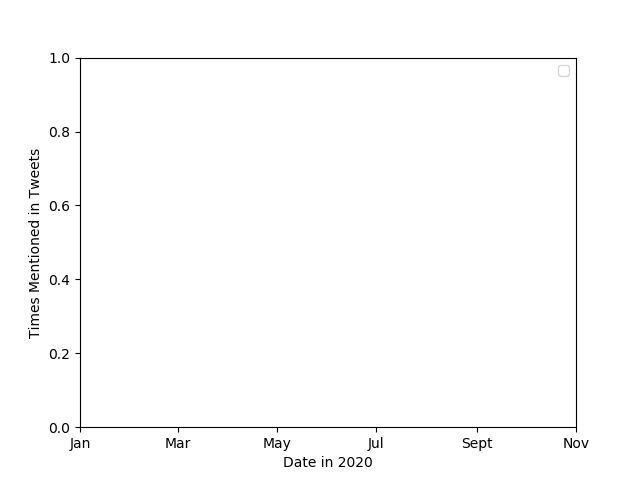
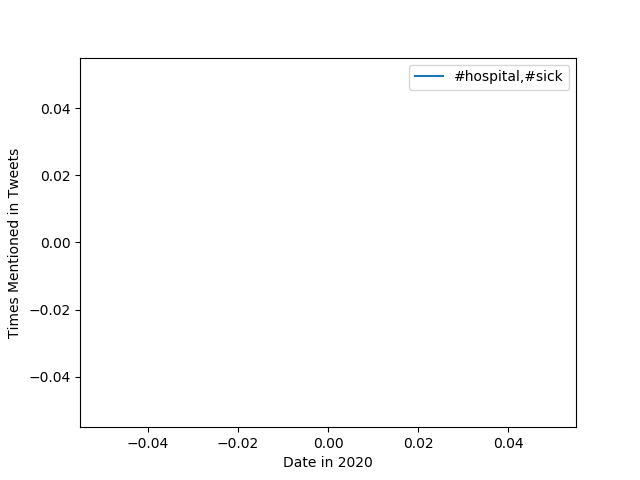
add alt

diff --git a/alternative_reduce.py b/alternative_reduce.py
@@ -1,35 +1,39 @@
 #!/usr/bin/env python3
-import argparse
+import matplotlib
+import numpy as np
 import json
+matplotlib.use('Agg')
+import matplotlib.pyplot as plt
+import argparse
 from collections import Counter, defaultdict
 from glob import glob
 
-import matplotlib
-import numpy as np
-matplotlib.use('Agg')
-import matplotlib.pyplot as plt
+# command line args
+parser = argparse.ArgumentParser()
+parser.add_argument('--input_dir', required=True)
+parser.add_argument('--keys', nargs='+', required=True)
+args = parser.parse_args()
 
+input_files = glob(args.input_dir + '/*')
 
-def main(args):
-    input_files = glob(args.input_dir + '/*')
-    for key in args.keys:
-        yaxis = []
-        total = defaultdict(lambda: Counter())
+for key in args.keys:
+    yaxis = []
+    total = defaultdict(lambda: Counter())
 
-        for path in sorted(input_files):
-            with open(path) as f:
-                tmp = json.load(f)
-                num = 0
-                try:
-                    for k in tmp[key]:
-                        num += tmp[key][k]
-                except:
-                    pass
-                yaxis.append(num)
-        plt.plot(np.arrange(len(yaxis)), yaxis, label=key)
+    for path in sorted(input_files):
+        with open(path) as f:
+            tmp = json.load(f)
+            sumnum = 0
+            try:
+                for k in tmp[key]:
+                    sumnum += tmp[key][k]
+            except:
+                pass
+            yaxis.append(sumnum)
+    plt.plot(np.arange(len(yaxis)), yaxis, label=key)
 
 plt.xlabel("Date in 2020")
 plt.ylabel("Times Mentioned in Tweets")
 plt.legend()
-plt.xticks([0, 60, 121, 182, 244, 305], ["Jan", "Mar", "May", "Jul", "Sept", "Nov"])
 plt.savefig("sickvshospital_tweet.png")
+plt.show()
